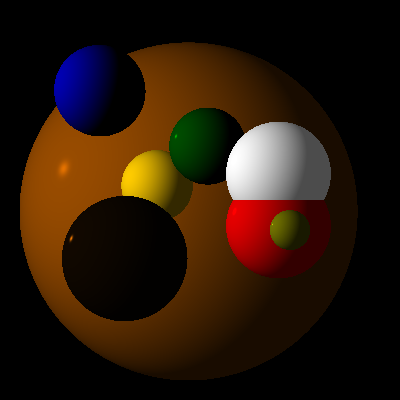
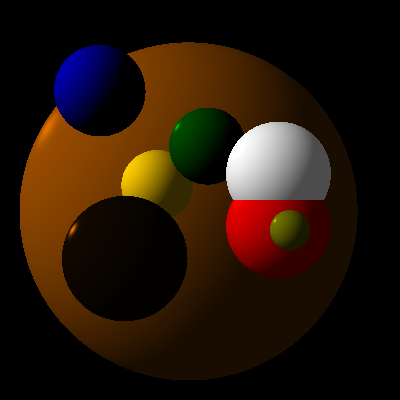
Increase p value & refactor

diff --git a/raytracerframework_cpp/Code/scene.cpp b/raytracerframework_cpp/Code/scene.cpp
@@ -103,16 +103,16 @@ Color Scene::trace(Ray const &ray)
     l.normalize();
 
     // Phong Shading
-    double p = 50.0;
+    double p = 200.0;
     color.r = phongShading(r * kd, light.color.r, N, l, H, r * ks, p);
     color.g = phongShading(g * kd, light.color.g, N, l, H, g * ks, p);
     color.b = phongShading(b * kd, light.color.b, N, l, H, b * ks, p);
 
+    // Add Ambient Lighting
     double intensity = 1.0;
-
-    color.r = color.r + r*intensity*ka;
-    color.g = color.g + g*intensity*ka;
-    color.b = color.b + b*intensity*ka;
+    color.r = color.r + r * intensity * ka;
+    color.g = color.g + g * intensity * ka;
+    color.b = color.b + b * intensity * ka;
 
     return color;
 }
